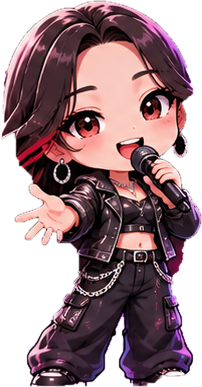
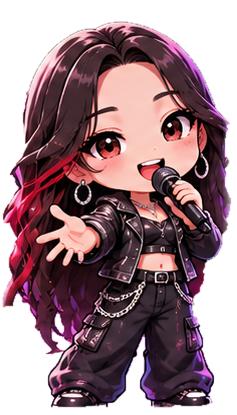
Add files via upload

diff --git a/babymonster-ep01.html b/babymonster-ep01.html
@@ -84,7 +84,7 @@
 @media(max-width:980px){.members-stage{grid-template-columns:repeat(7,minmax(0,1fr))!important}.member-spot .avatar-wrap{height:clamp(130px,23vw,250px)!important}.stage-board{margin-inline:6px!important;padding-inline:5px!important}}
 @media(max-width:600px){.stage-board .stage-topline{flex-wrap:wrap!important}.members-stage{overflow-x:auto;grid-template-columns:repeat(7, minmax(75px,1fr))!important;min-height:165px!important;gap:2px!important}.member-spot .avatar-wrap{height:140px!important}.member-spot .nameplate{font-size:9px!important;padding:4px!important}.member-spot .tag{display:none}.stage-board{margin-inline:4px!important;padding-inline:4px!important}}
 @media(prefers-reduced-motion:reduce){.member-spot{animation:none!important}.member-spot img.avatar{transition:none!important}}
-</style></head><body><main class="wrap"><section class="screen"><div class="top"><div class="brand"><b>BABYMONSTER</b><span>鼠姊姊・英韓小教室</span></div><div class="lyrics" id="lyrics" aria-label="當前歌詞"></div></div><div class="meta"><span class="pill">DRIP · <span id="counter">段落 1 / 29</span></span><span id="member">粉紅霓虹舞台</span></div><section class="stage-board" aria-label="BABYMONSTER Q版舞台人物"><div class="stage-topline member-legend" id="member-legend"><span data-singer="RUKA" style="color:#8786ff">RUKA</span><span data-singer="PHARITA" style="color:#ed9c48">PHARITA</span><span data-singer="ASA" style="color:#ff4ca5">ASA</span><span data-singer="AHYEON" style="color:#ed5362">AHYEON</span><span data-singer="RAMI" style="color:#39bfe7">RAMI</span><span data-singer="RORA" style="color:#efc746">RORA</span><span data-singer="CHIQUITA" style="color:#59b849">CHIQUITA</span></div><div class="members-stage" id="members-stage"><div class="member-spot" data-singer="RUKA" style="color:#8786ff"><div class="avatar-wrap"><img class="avatar" src="/assets/bm-approved-final/RUKA.png" alt="RUKA Q版人物"><span class="mic">🎤</span></div><div class="nameplate">RUKA</div><div class="tag">正在唱歌</div></div><div class="member-spot" data-singer="PHARITA" style="color:#ed9c48"><div class="avatar-wrap"><img class="avatar" src="/assets/bm-approved-final/PHARITA.png" alt="PHARITA Q版人物"><span class="mic">🎤</span></div><div class="nameplate">PHARITA</div><div class="tag">正在唱歌</div></div><div class="member-spot" data-singer="ASA" style="color:#ff4ca5"><div class="avatar-wrap"><img class="avatar" src="/assets/bm-approved-final/ASA.png" alt="ASA Q版人物"><span class="mic">🎤</span></div><div class="nameplate">ASA</div><div class="tag">正在唱歌</div></div><div class="member-spot" data-singer="AHYEON" style="color:#ed5362"><div class="avatar-wrap"><img class="avatar" src="/assets/bm-approved-final/AHYEON.png" alt="AHYEON Q版人物"><span class="mic">🎤</span></div><div class="nameplate">AHYEON</div><div class="tag">正在唱歌</div></div><div class="member-spot" data-singer="RAMI" style="color:#39bfe7"><div class="avatar-wrap"><img class="avatar" src="/assets/bm-approved-final/RAMI.png" alt="RAMI Q版人物"><span class="mic">🎤</span></div><div class="nameplate">RAMI</div><div class="tag">正在唱歌</div></div><div class="member-spot" data-singer="RORA" style="color:#efc746"><div class="avatar-wrap"><img class="avatar" src="/assets/bm-approved-final/RORA.png" alt="RORA Q版人物"><span class="mic">🎤</span></div><div class="nameplate">RORA</div><div class="tag">正在唱歌</div></div><div class="member-spot" data-singer="CHIQUITA" style="color:#59b849"><div class="avatar-wrap"><img class="avatar" src="/assets/bm-approved-final/CHIQUITA.png" alt="CHIQUITA Q版人物"><span class="mic">🎤</span></div><div class="nameplate">CHIQUITA</div><div class="tag">正在唱歌</div></div></div></section><div class="translation"><label>整句直譯</label><strong id="translation"></strong><button class="speech" id="zh-read" type="button" title="朗讀中文">🔊 中文</button></div><div id="lesson-toggle-hint">點選上方任一句歌詞，即可展開該句的單字圖卡與中文解釋。</div><div class="cards" id="cards"></div><div class="toolbar"><a class="back" href="/rooms.html?room=games">⌂ 回遊戲間</a><button id="previous" type="button">◀ 上一句</button><select id="selector" aria-label="選擇歌詞句子"></select><button id="next" type="button">下一句 ▶</button><button class="primary" id="teach" type="button">🔊 點選歌詞後學單字</button></div><div class="status" id="status">已套用使用者提供的分色歌詞影片，依成員換色時間段教學。</div><section class="cue-bar" aria-label="演唱者換色自動暫停教學">
+</style></head><body><main class="wrap"><section class="screen"><div class="top"><div class="brand"><b>BABYMONSTER</b><span>鼠姊姊・英韓小教室</span></div><div class="lyrics" id="lyrics" aria-label="當前歌詞"></div></div><div class="meta"><span class="pill">DRIP · <span id="counter">段落 1 / 29</span></span><span id="member">粉紅霓虹舞台</span></div><section class="stage-board" aria-label="BABYMONSTER Q版舞台人物"><div class="stage-topline member-legend" id="member-legend"><span data-singer="RUKA" style="color:#8786ff">RUKA</span><span data-singer="PHARITA" style="color:#ed9c48">PHARITA</span><span data-singer="ASA" style="color:#ff4ca5">ASA</span><span data-singer="AHYEON" style="color:#ed5362">AHYEON</span><span data-singer="RAMI" style="color:#39bfe7">RAMI</span><span data-singer="RORA" style="color:#efc746">RORA</span><span data-singer="CHIQUITA" style="color:#59b849">CHIQUITA</span></div><div class="members-stage" id="members-stage"><div class="member-spot" data-singer="RUKA" style="color:#8786ff"><div class="avatar-wrap"><img class="avatar" src="/assets/bm-approved-final/RUKA.png" alt="RUKA Q版人物"><span class="mic">🎤</span></div><div class="nameplate">RUKA</div><div class="tag">正在唱歌</div></div><div class="member-spot" data-singer="PHARITA" style="color:#ed9c48"><div class="avatar-wrap"><img class="avatar" src="/assets/bm-approved-final/PHARITA.png" alt="PHARITA Q版人物"><span class="mic">🎤</span></div><div class="nameplate">PHARITA</div><div class="tag">正在唱歌</div></div><div class="member-spot" data-singer="ASA" style="color:#ff4ca5"><div class="avatar-wrap"><img class="avatar" src="/assets/bm-approved-final/ASA.png" alt="ASA Q版人物"><span class="mic">🎤</span></div><div class="nameplate">ASA</div><div class="tag">正在唱歌</div></div><div class="member-spot" data-singer="AHYEON" style="color:#ed5362"><div class="avatar-wrap"><img class="avatar" src="/assets/bm-approved-final/AHYEON.png?v=hairfix-20261120" alt="AHYEON Q版人物"><span class="mic">🎤</span></div><div class="nameplate">AHYEON</div><div class="tag">正在唱歌</div></div><div class="member-spot" data-singer="RAMI" style="color:#39bfe7"><div class="avatar-wrap"><img class="avatar" src="/assets/bm-approved-final/RAMI.png" alt="RAMI Q版人物"><span class="mic">🎤</span></div><div class="nameplate">RAMI</div><div class="tag">正在唱歌</div></div><div class="member-spot" data-singer="RORA" style="color:#efc746"><div class="avatar-wrap"><img class="avatar" src="/assets/bm-approved-final/RORA.png" alt="RORA Q版人物"><span class="mic">🎤</span></div><div class="nameplate">RORA</div><div class="tag">正在唱歌</div></div><div class="member-spot" data-singer="CHIQUITA" style="color:#59b849"><div class="avatar-wrap"><img class="avatar" src="/assets/bm-approved-final/CHIQUITA.png" alt="CHIQUITA Q版人物"><span class="mic">🎤</span></div><div class="nameplate">CHIQUITA</div><div class="tag">正在唱歌</div></div></div></section><div class="translation"><label>整句直譯</label><strong id="translation"></strong><button class="speech" id="zh-read" type="button" title="朗讀中文">🔊 中文</button></div><div id="lesson-toggle-hint">點選上方任一句歌詞，即可展開該句的單字圖卡與中文解釋。</div><div class="cards" id="cards"></div><div class="toolbar"><a class="back" href="/rooms.html?room=games">⌂ 回遊戲間</a><button id="previous" type="button">◀ 上一句</button><select id="selector" aria-label="選擇歌詞句子"></select><button id="next" type="button">下一句 ▶</button><button class="primary" id="teach" type="button">🔊 點選歌詞後學單字</button></div><div class="status" id="status">已套用使用者提供的分色歌詞影片，依成員換色時間段教學。</div><section class="cue-bar" aria-label="演唱者換色自動暫停教學">
 <button class="main" type="button" id="cue-start">▶ 從頭開始・唱一段教一段</button>
 <button type="button" id="cue-stop">■ 暫停教學</button>
 <button type="button" id="cue-repeat">↻ 重聽本段</button>
